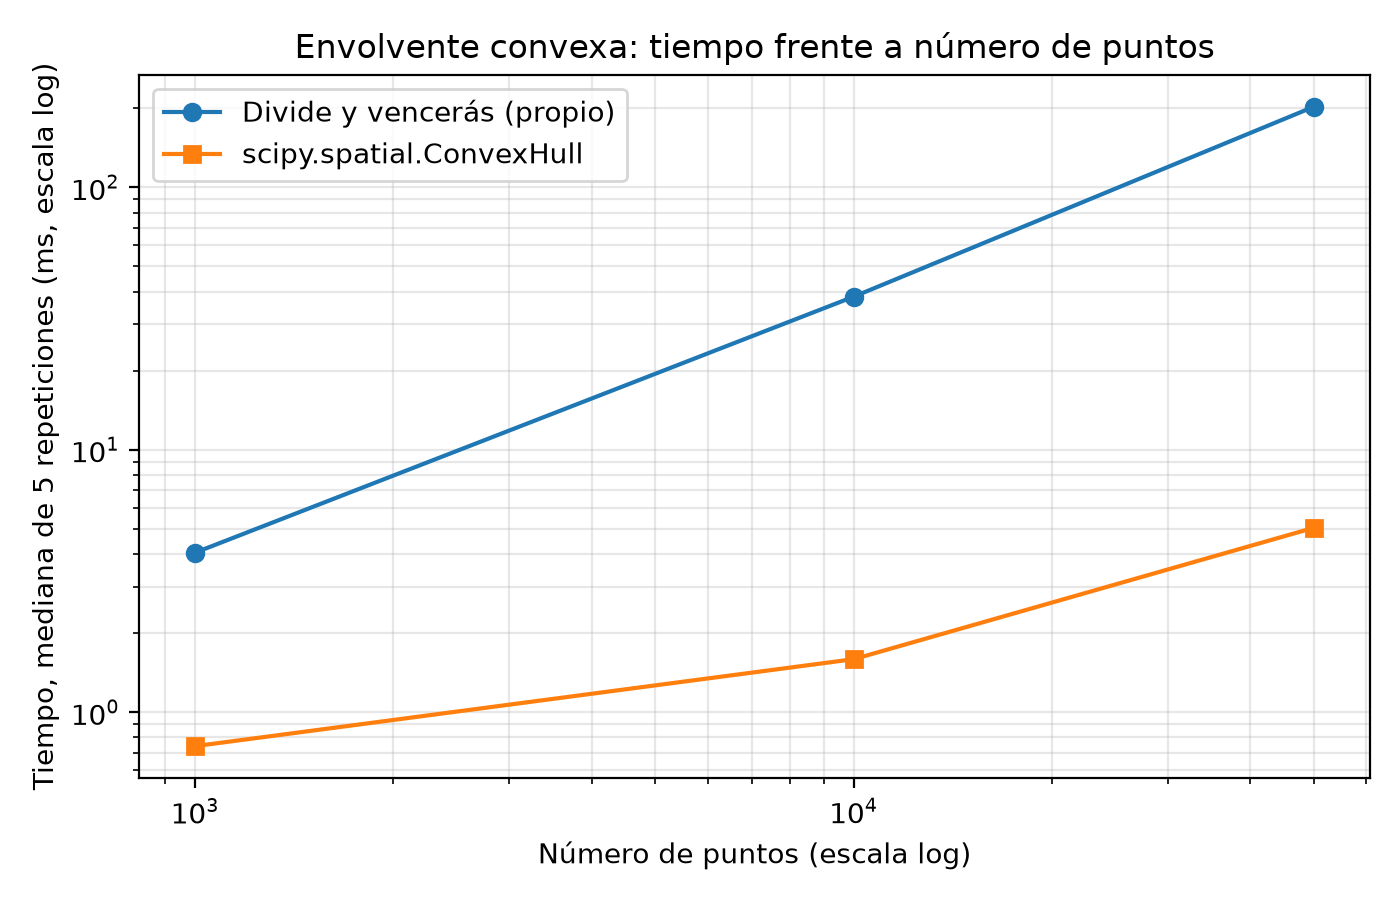
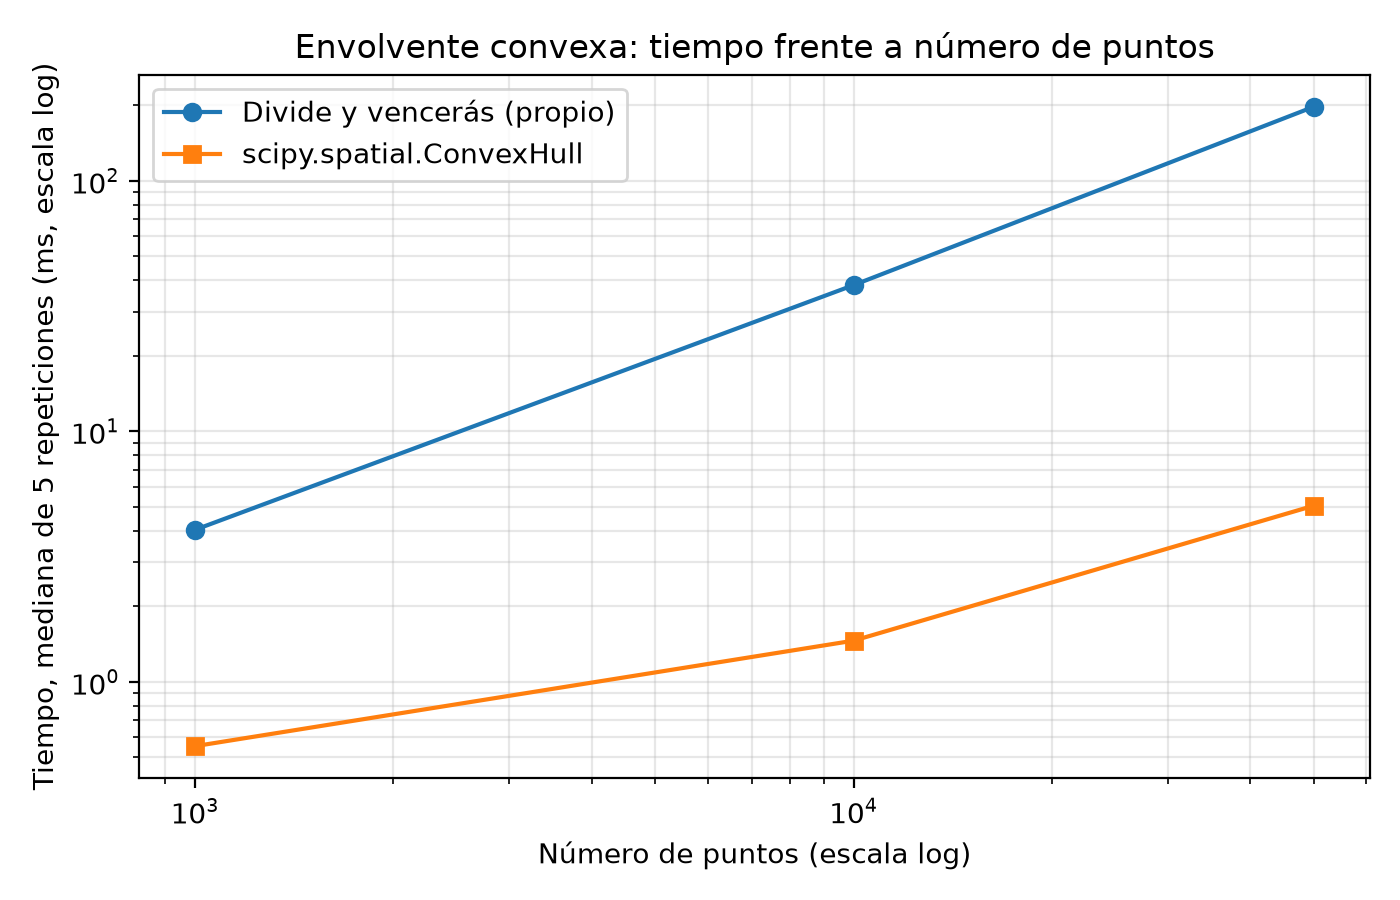
R3: envolvente convexa, experimento de tiempos, gráfica y página de la app

diff --git a/src/app/paginas.py b/src/app/paginas.py
@@ -141,6 +141,30 @@ def resultados():
         mostrar_archivos("r4")
 
 
+def envolvente():
+    import folium
+    from streamlit_folium import st_folium
+
+    st.header("Envolvente convexa de la red vial (R3)")
+    ruta_csv = os.path.join(RESULTADOS, "r3_envolvente.csv")
+    if not os.path.exists(ruta_csv):
+        st.info("Falta resultados/r3_envolvente.csv; se genera con "
+                "`python -m src.envolvente.calcular_envolvente`.")
+        return
+    v = pd.read_csv(ruta_csv)
+    puntos = list(zip(v["lat"], v["lon"]))
+    st.write(f"Menor polígono convexo que contiene los nodos de la red: {len(v)} vértices. "
+             "Calculada con divide y vencerás propio sobre las coordenadas en UTM 18N.")
+    mapa = folium.Map(location=[v["lat"].mean(), v["lon"].mean()], zoom_start=9)
+    folium.Polygon(puntos, color="#2c3e50", weight=3, fill=True, fill_opacity=0.15).add_to(mapa)
+    for lat, lon in puntos:
+        folium.CircleMarker((lat, lon), radius=4, color="#c0392b", fill=True).add_to(mapa)
+    mapa.fit_bounds(puntos)
+    st_folium(mapa, height=550, width=1100, returned_objects=[])
+    with st.expander("Vértices (x, y en metros; lon, lat en grados)"):
+        st.dataframe(v)
+
+
 def pendiente(nombre):
     st.header(nombre)
     st.info("Esta página todavía no está construida.")

diff --git a/src/app/app.py b/src/app/app.py
@@ -20,7 +20,7 @@ st.set_page_config(page_title="Rutas del Paisaje Cultural Cafetero", layout="wid
 PAGINAS = {
     "Inicio": paginas.inicio,
     "Ruta (R2)": paginas.ruta,
-    "Envolvente (R3)": lambda: paginas.pendiente("Envolvente convexa (R3)"),
+    "Envolvente (R3)": paginas.envolvente,
     "Itinerario (R4)": paginas.itinerario,
     "Resultados R1-R4": paginas.resultados,
     "Sustentación": lambda: paginas.pendiente("Ayudas para la sustentación"),

diff --git a/resultados/r3_tabla.md b/resultados/r3_tabla.md
@@ -1,6 +1,6 @@
 | Conjunto | Puntos | Vértices | Tu versión (ms) | SciPy (ms) | Cociente |
 |---|---|---|---|---|---|
-| nodos de la red | 8791 | 14 | 32.876 | 2.194 | 15.0 |
-| azar 1000 | 1000 | 16 | 4.047 | 0.741 | 5.5 |
-| azar 10000 | 10000 | 25 | 38.233 | 1.589 | 24.1 |
-| azar 50000 | 50000 | 26 | 202.511 | 5.035 | 40.2 |
+| nodos de la red | 8791 | 14 | 32.162 | 1.269 | 25.3 |
+| azar 1000 | 1000 | 16 | 4.040 | 0.553 | 7.3 |
+| azar 10000 | 10000 | 25 | 38.273 | 1.458 | 26.3 |
+| azar 50000 | 50000 | 26 | 197.250 | 5.043 | 39.1 |
